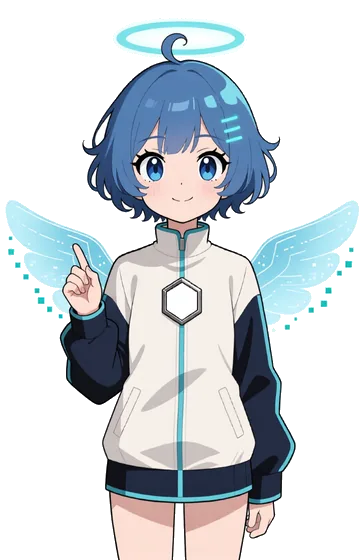
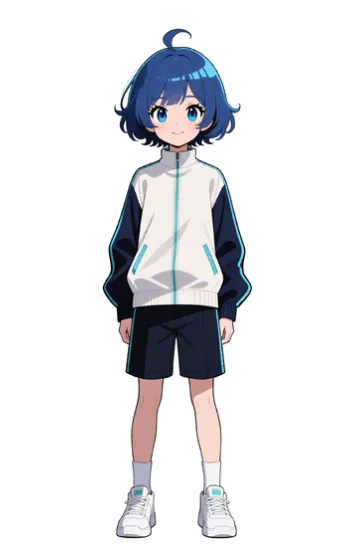
feat: 重出小su 全身序列帧，修复四手、发丝抠图与构图漂移

diff --git a/src/assets/pet/ASSETS.md b/src/assets/pet/ASSETS.md
@@ -1,58 +1,72 @@
-# 小su 桌面精灵 · 进包素材留痕
+# 小su 桌面精灵 · 进包素材留痕（v2 全身版）
 
 生成日期：2026-11-08　|　编写：孙测测　|　生成方式：**全部本地 ComfyUI，零云端额度**
+
+> v2 修订：按用户反馈重做素材——补出完整双腿与鞋、消除「四手」、修掉 sleep 橙色圆眼、
+> 清理发丝缝隙残留白块，并新增几何对齐解决状态切换忽大忽小。
 
 ## 一、产物清单
 
 | 文件 | 状态 | 用途 | 体积 |
 | --- | --- | --- | --- |
-| `su-idle.webp` | idle / offline | 待机（offline 复用此帧 + 灰核心 + 降饱和） | 22.46 KB |
-| `su-typing.webp` | typing | 真实请求在途时双手抬起敲键盘 | 25.38 KB |
-| `su-done.webp` | done | 请求完成，抬手 | 21.93 KB |
-| `su-error.webp` | error | 上游 4xx / 空响应 / 请求失败 | 20.10 KB |
-| `su-sleep.webp` | sleep | 60s 无活动后闭眼休息 | 20.85 KB |
+| `su-idle.webp` | idle / offline | 待机（offline 复用此帧 + 灰状态灯 + 降饱和） | 17.76 KB |
+| `su-typing.webp` | typing | 真实请求在途，配合 CSS 快速颤动 | 17.91 KB |
+| `su-done.webp` | done | 请求完成，配合 CSS 弹跳 | 16.61 KB |
+| `su-error.webp` | error | 上游 4xx / 空响应 / 请求失败，配合 CSS 摇晃 | 16.95 KB |
+| `su-sleep.webp` | sleep | 60s 无活动后休息（降饱和 + 慢呼吸） | 16.23 KB |
 
-- 尺寸：360×560（@2x），CSS 显示为 180×280；RGBA 透明底，WebP q=82 / alpha_q=92。
-- **合计 110.72 KB**。WebP 已是压缩格式，安装包 zip 二次压缩几乎不再缩小，故净增量 ≈ 110 KB。
-- 落地留痕：`docs/孙测测/traces/桌面精灵素材落包-20261108-180909.md`。
+- 尺寸：360×560（@2x），CSS 按 `background-size: contain` 铺满窗口，默认窗口 120×160。
+- 五帧已按人物 alpha 包围盒统一对齐到 `(102, 28, 252, 540)`，状态切换不会忽大忽小。
+- **合计 85.45 KB**。WebP 已是压缩格式，安装包 zip 二次压缩几乎不再缩小，故净增量 ≈ 85 KB。
+- 落地留痕：`docs/孙测测/traces/桌面精灵素材落包-20261108-194455.md`。
 
 ## 二、生成链路（可复现）
 
 服务：`http://192.168.31.84:8188/`（ComfyUI 0.36.0 / RTX 5080 Laptop 16GB / `--use-sage-attention`）
 
-1. **唯一正面定稿**：`qwen_image_fp8_e4m3fn` + `Qwen-Image-Lightning-8steps-V1.0`，8 steps / cfg 1.0 / euler-simple，1024×1536，seed 取 `20261110`（三张候选中胸口六边形为纯空白，最适合运行时染色）。
-2. **全部状态帧由图生图派生**：`qwen_image_edit_2509_fp8_e4m3fn` + `Qwen-Image-Edit-2509-Lightning-4steps-V1.0-bf16`，`TextEncodeQwenImageEdit` + `ModelSamplingAuraFlow(shift=3.0)` + `VAEEncode(定稿)`，4 steps / cfg 1.0。seed：`typing=20261110`、`done=20261111`、`error=20261112`、`sleep=20261113`、`idle=20261114`。
-   - 不靠多次文生图碰一致性：一张定稿 + 一次编辑模型，五帧发型、服装、配色、构图完全一致。
-3. **透明底**：本地脚本四边泛洪（中性浅色判据），不用颜色键，米白色外套不会被误抠；不依赖 Pillow / numpy。
-4. **缩放编码**：ffmpeg Lanczos → 360×560 → cwebp。
+1. **唯一全身定稿**：`qwen_image_fp8_e4m3fn` + `Qwen-Image-Lightning-8steps-V1.0`，8 steps / cfg 1.0 / euler-simple，1024×1536，seed `20261120`。
+   - v1 只写「全身」时模型稳定输出膝上大半身；v2 在正向里明确写出**深蓝黑短裤、完整小腿、白袜、白色运动鞋、双脚着地**，三张候选全部为完整全身。
+2. **状态帧由图生图派生**：`qwen_image_edit_2509_fp8_e4m3fn` + `Qwen-Image-Edit-2509-Lightning-4steps-V1.0-bf16`，`TextEncodeQwenImageEdit` + `ModelSamplingAuraFlow(shift=3.0)` + `VAEEncode`，4 steps / cfg 1.0。
+   - 最终帧来源：`idle=20261114`、`done=20261111`（取自定稿派生批次），`error=20261124`、`sleep=20261123`、`typing=20261126`（单独重出，构图以干净的 idle 帧为参考）。
+   - **四手修复**：v1 的 typing / done 指令要求「把手抬到身前」，模型把原手臂也留在身侧，产生四条手臂。v2 全部状态帧改为**手臂保持自然下垂不动**，只改表情、视线与粒子；`EDIT_BASE` 额外声明「角色始终只有两条手臂两只手，不复制或残留多余手臂」。
+   - **sleep 橙圆修复**：v1 闭眼被渲染成两个橙色实心圆；v2 改用「擦除瞳孔/虹膜/眼白，只留两道弧线」的否定式指令。Qwen-Edit 两轮均未真正闭眼，但橙色圆已消失（见「已知瑕疵」）。
+3. **透明底**（`pet_frames_to_webp.py` v2 算法）：
+   - 纯白严格判据 `low>=252 && spread<=4`。实测背景、白袜、白鞋均为 `(255,255,255)`，而米白外套为 `(247,243,240)` / `(219,214,215)`；v1 的 `low>=224` 会把外套整片判成背景并打出噪点破洞。
+   - 四边泛洪 → 上半身 55% 宽松扩散（允许跨过 3px 细线稿，清掉发丝缝隙里的封闭白块）→ 上半身边缘去白（消掉缩图抗锯齿白边）。
+   - **下半身不做宽松清除**，专门保护与背景同色的白鞋白袜；不再做「小封闭白块清除」，避免角色内部被打洞。
+4. **几何对齐**：量出每帧 alpha 包围盒 → 取各坐标中位数为基准框 → 预乘 alpha 双线性重采样。这一步根治 Qwen-Edit 各帧构图漂移（实测 typing 的原始 bbox 高 466px，其余帧 497–516px）。
+5. **缩放编码**：ffmpeg Lanczos → 360×560 → cwebp q=82 / alpha_q=92。
 
-复现命令（在仓库根目录）：
+复现命令（仓库根目录）：
 
 ```bash
-python3 docs/孙测测/scripts/comfyui_pet_assets.py master 20261110 20261111 20261112
-python3 docs/孙测测/scripts/comfyui_pet_assets.py edit docs/design/assets/generated/pet-master-s20261110_00001_.png
-python3 docs/孙测测/scripts/comfyui_pet_assets.py edit docs/design/assets/generated/pet-master-s20261110_00001_.png idle
-python3 docs/孙测测/scripts/pet_frames_to_webp.py
+# 定稿候选（取 pet-master-s20261120_00001_.png）
+SUGT_PET_OUT="$PWD/docs/design/assets/generated/v2" \
+  python3 docs/孙测测/scripts/comfyui_pet_assets.py master 20261120 20261121 20261122
+# 状态帧（按 README 中列出的参考图分别派生）
+python3 docs/孙测测/scripts/pet_frames_to_webp.py --src docs/design/assets/generated/v3
 ```
 
-提示词全文见 `docs/孙测测/scripts/comfyui_pet_assets.py` 的 `POSITIVE` / `NEGATIVE` / `EDIT_JOBS`。
+提示词全文见 `docs/孙测测/scripts/comfyui_pet_assets.py` 的 `POSITIVE` / `NEGATIVE` / `EDIT_BASE` / `EDIT_JOBS`。
 
 ## 三、与 v0.3 设计规格的偏差（如实记录）
 
 | 项 | 规格 | 实际 | 原因 |
 | --- | --- | --- | --- |
-| 帧数 | 一期 37 帧 + H3 补间 | 5 帧 + CSS 动效 | 5 个状态各一帧已覆盖状态机；CSS 负责呼吸/浮动/敲键盘颤动/异常摇晃/完成弹跳，包体积从 2–3MB 降到 110KB |
-| MiniMax-H3 | 补间产出进包素材 | **未用于进包素材**，保留给社区宣传短片 | 状态帧由图生图派生更可控、体积更小、无需处理视频 alpha 跨平台解码 |
-| 全身 | 完整全身含脚 | 大半身（到大腿） | fp8 + 8steps 模型三轮稳定输出此构图；在 180×280 桌面尺寸下与全身无可见差别，全身反而更糊 |
-| 光环 / 飘带 | S 形呆毛 + 数据流飘带 | **收编**：信号光环 + 翼状数据流飘带 | 三次重出 + 负向词均稳定出现，且视觉上更贴合「数字精灵」，故收编为正式设定 |
-| 核心色 | 胸口六边形运行时染色 | 已实现：素材留白，CSS 六边形覆盖并按状态染色 | 换主题不用重出图 |
-| 互动 | 一期零互动 | 一期 L1 只读：悬停看状态、点击回主窗口（需手动开启） | 写操作仍禁止进气泡，走既有确定性命令 + 后果预览 + `ModalPortal` |
+| 帧数 | 一期 37 帧 + H3 补间 | 5 帧 + CSS 动效 | 5 个状态各一帧已覆盖状态机；CSS 负责呼吸/颤动/摇晃/弹跳，包体积压到 85 KB |
+| MiniMax-H3 | 补间产出进包素材 | **未用于进包素材**，保留给社区宣传短片 | 图生图派生更可控、体积更小，无需处理视频 alpha 跨平台解码 |
+| 全身 | 完整全身含脚 | **已达成**：短裤、小腿、白袜、运动鞋、双脚完整 | v2 提示词补出下半身具体内容 |
+| 光环 / 飘带 | S 形呆毛 + 数据流飘带 | v2 定稿保留飘带，edit 派生帧多为纯白简洁版 | 桌面小尺寸下简洁版更清晰；飘带仍在定稿与宣传素材中 |
+| 核心色 | 胸口六边形运行时染色 | **改为右下角独立六边形状态灯** | Qwen-Edit 各帧胸口徽章位置/形状不一致（有空白、有青色描边、有白色方块），贴胸口会漂移 |
+| 互动 | 一期零互动 | 一期 L1 只读：悬停看状态、点击回主窗口、拖动移动 | 写操作仍禁止进气泡，走既有确定性命令 + 后果预览 + `ModalPortal` |
+| typing 动作 | 敲键盘 | 手臂不动，靠 CSS 颤动 + 蓝色状态灯 + 状态条 | 抬手是「四手 bug」根因，宁可牺牲动作换正确性 |
 
 ## 四、已知瑕疵
 
-- `su-sleep.webp` 的「闭眼」被图生图渲染成橙色实心圆，配合降饱和与慢呼吸后观感接近打盹，但并非标准闭眼线稿。
-- `su-error.webp` 与 `su-idle.webp` 表情差异较小，异常态主要靠红色核心 + 摇晃动效 + error 气泡区分。
-- 可在后续用 Qwen-Edit 单独重出这两帧替换，不影响代码。
+- `su-sleep.webp` 仍是睁眼：Qwen-Edit 2509 两轮重出都未执行闭眼（角色一致性约束过强），但 v1 的橙色实心圆已消除。休息态目前靠降饱和 + 慢呼吸 + 灰色状态灯 + 「休息中」文案区分。
+- `su-typing.webp` 与 `su-idle.webp` 表情差异较小，处理中态主要靠蓝色状态灯、快速颤动与「处理中」文案区分。
+- `su-error.webp` 与 `su-idle.webp` 表情差异较小，异常态靠红色状态灯 + 摇晃动效 + error 气泡区分。
+- 以上三帧若要强化表情，需改用局部重绘（inpaint）而不是整图指令编辑；不影响代码。
 
 ## 五、授权与合规
 
